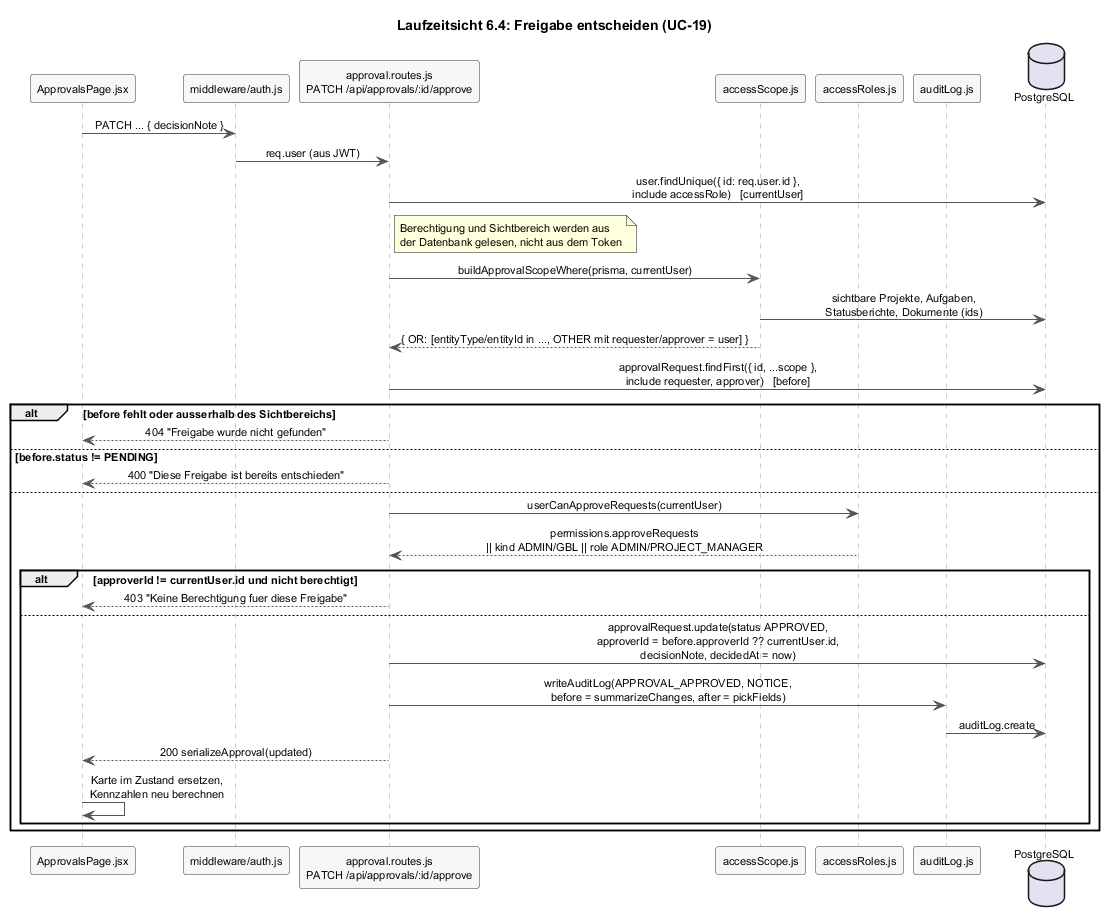
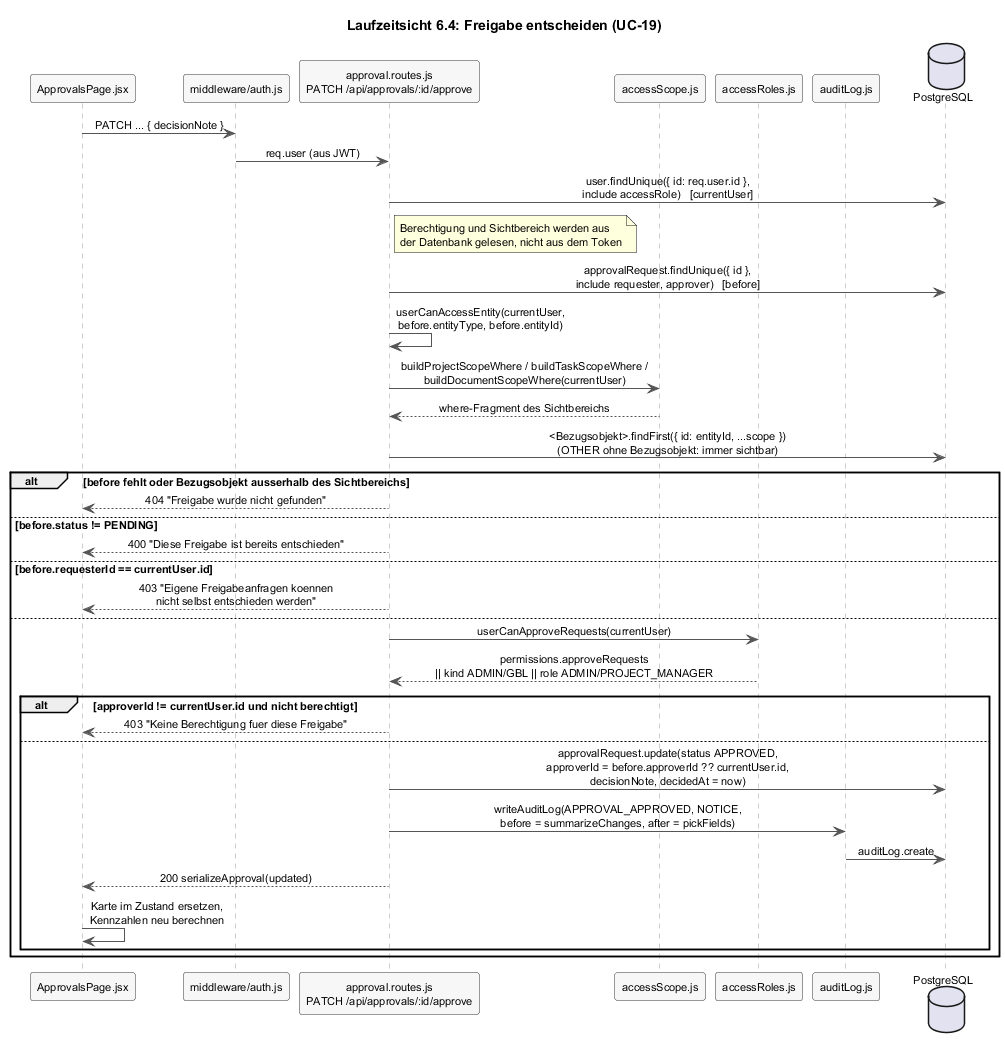
docs(arch): align architecture with server changes of 24 September

diff --git a/docs/arch/A07-verteilungssicht.md b/docs/arch/A07-verteilungssicht.md
@@ -28,7 +28,7 @@ Die Inbetriebnahme aus Sicht des Anwenders (Voraussetzungen, Konfiguration, Schr
 
 **Zuordnung der Bausteine.** Browser-Anwendung: Quelle im Vite-Prozess, Ausführung im Browser. API-Server mit allen Routen- und Hilfsmodulen: Node-Prozess. Persistenzschicht: Schema und Client im Node-Prozess, Daten in PostgreSQL. Local Storage des Browsers hält Sitzung, Einstellungen und die in [8.9](A08-querschnittliche-konzepte.md#89-zustand-im-browser) beschriebenen Fachdaten.
 
-**Was fehlt.** Keine Unit-Tests (nur der Playwright-Rauchtest `npm run test:e2e` gegen die laufende Entwicklungsumgebung mit geladenem Seed), keine CI (kein `.github/`-Verzeichnis), kein Docker, kein Prozessmanager, keine Protokollrotation. Der Server schreibt mit `console.log` und `console.error` auf die Konsole des Terminals. Für ein Studienprojekt mit sechs Personen und einer Entwicklungsumgebung ist das die kleinste lauffähige Verteilung; für einen Betrieb außerhalb der Entwicklung gilt 7.2.
+**Was fehlt.** Keine Unit-Tests (Playwright-Rauchtest `npm run test:e2e` und Schnittstellentests `npm run test:api` unter `tests/`, beide gegen die laufende Entwicklungsumgebung mit geladenem Seed), keine CI (kein `.github/`-Verzeichnis), kein Docker, kein Prozessmanager, keine Protokollrotation. Der Server schreibt mit `console.log` und `console.error` auf die Konsole des Terminals. Für ein Studienprojekt mit sechs Personen und einer Entwicklungsumgebung ist das die kleinste lauffähige Verteilung; für einen Betrieb außerhalb der Entwicklung gilt 7.2.
 
 ---
 
@@ -42,7 +42,7 @@ Die Inbetriebnahme aus Sicht des Anwenders (Voraussetzungen, Konfiguration, Schr
 
 | Element | Realisierung | Änderung gegenüber 7.1 |
 |---------|--------------|-------------------------|
-| **Browser-Anwendung** | `vite build` in `client/` erzeugt statische Dateien unter `client/dist`; ein Reverse Proxy (nginx oder der Standard der IT) liefert sie unter einer HTTPS-Adresse aus. | Serveradresse in `client/src/api/axios.js` muss vor dem Bauen auf die Proxy-Adresse zeigen (TECH-10); besser: aus einer Umgebungsvariable des Builds lesen. |
+| **Browser-Anwendung** | `vite build` in `client/` erzeugt statische Dateien unter `client/dist`; ein Reverse Proxy (nginx oder der Standard der IT) liefert sie unter einer HTTPS-Adresse aus. | `VITE_API_URL` muss beim Bauen auf die Proxy-Adresse zeigen (TECH-10). Vite übernimmt den Wert fest in das Bundle; ein anderer Server braucht einen Neubau, aber keine Codeänderung. |
 | **API-Server** | Ein Node-Prozess unter einem Prozessmanager (systemd oder pm2) hinter demselben Proxy unter `/api`. Damit haben Browser-Anwendung und Schnittstelle einen Ursprung. | CORS auf die eigene Adresse einschränken oder entfernen; `console`-Ausgaben in eine Protokolldatei leiten; `PORT` frei wählbar. |
 | **PostgreSQL** | Von der IT betriebene Instanz mit TLS, Sicherung und Zugriffsbeschränkung. | Keine; `DATABASE_URL` mit `sslmode=require` ist vorgesehen. |
 | **Geheimnisse** | `JWT_SECRET`, `TWO_FACTOR_SECRET_KEY`, Client-Secrets, SMTP-Passwort aus dem Secret-Store der IT als Umgebungsvariablen. | Keine; der Server liest ausschließlich Umgebungsvariablen (CONV-08). |

diff --git a/docs/arch/A08-querschnittliche-konzepte.md b/docs/arch/A08-querschnittliche-konzepte.md
@@ -98,7 +98,7 @@ Die grobe Rolle wird bei Zuordnung abgeleitet (`role.routes.js`: `role.kind === 
 
 **Browserseite.** `data/bankOrganization.js` exportiert `canManageRoles(user)` und `getEffectiveRoleForUser(user)` auf Basis einer festen Standardkonfiguration im Speicher (kein Local Storage mehr). Sie steuern Seitenleiste und Wächter `RequireAuditAccess`; sie sind eine Anzeigeentscheidung, keine Sicherheitsgrenze. Die Masken sehen ohnehin nur, was der Server liefert.
 
-**Abweichungen von QK-02.** (1) `viewDepartments` wird auf dem Server nirgends gelesen; der Sichtbereich gilt unabhängig davon. (2) `organization.routes.js` (Abteilung anlegen) und `document.routes.js` schreiben keine Audit-Einträge. (3) `role.routes.js` weist beim Löschen einer Rolle die Rolle mit Code `A` als Ersatz zu (R-04). (4) Das Seed-Skript legt ein Admin-Konto mit bekanntem Passwort an (R-07).
+**Abweichungen von QK-02.** (1) `viewDepartments` wird auf dem Server nirgends gelesen; der Sichtbereich gilt unabhängig davon. (2) `organization.routes.js` (Abteilung anlegen) und `document.routes.js` schreiben keine Audit-Einträge. (3) Behoben am 24. September: `role.routes.js` lehnt das Löschen einer Rolle mit zugeordneten Benutzern mit 400 ab, statt ihnen die Rolle `A` als Ersatz zuzuweisen (R-04). (4) Das Seed-Skript legt ein Admin-Konto mit bekanntem Passwort an (R-07).
 
 ## 8.4 Audit-Logging
 
@@ -136,7 +136,7 @@ Keine Validierungsbibliothek (kein zod, joi, express-validator). Jedes Routenmod
 
 | Modul | Funktionen | Regel |
 |-------|------------|-------|
-| `auth.routes.js`, `role.routes.js` | `isBlank(value)` | Pflichtfeld: Zeichenkette mit Inhalt nach `trim`. |
+| `auth.routes.js`, `role.routes.js` | `isBlank(value)`, `isTooShortPassword(value)` | Pflichtfeld: Zeichenkette mit Inhalt nach `trim`; Passwort mindestens acht Zeichen bei Registrierung, Anlegen und Ändern ([NFR-15b-02](../spec/N1-nichtfunktional.md)). Anmeldefehler antworten einheitlich mit „E-Mail oder Passwort falsch". |
 | `task.routes.js` | `normalizeStatus` (Tabelle `statusMap` nach [D2.3](../spec/D2-datentypen.md#d23-taskstatusdt)), `normalizePriority` (auch `hoch`/`mittel`/`niedrig`), `parseOptionalNumber` (Komma → Punkt), `parseTaskDate`, `toStringList`, `normalizeFavoriteReturnIndexBy`, `buildTaskDetailWrites` (Tags, Personen, Anhänge, Compliance, Ersteller, Audit-Spur) | [AF-04](../spec/F3-anwendungsfunktionen.md#af-04--status-priorität-und-eingaben-normalisieren) |
 | `project.routes.js` | `normalizeString`, `optionalString`, `optionalDate`, `optionalNumber`, `toStringArray` (Liste oder Text mit Komma/Zeilenumbruch), `buildMilestoneCreates`/`buildRiskCreates`/`buildInterfaceCreates`/`buildBudgetLineCreates` (Zeilen ohne Titel entfallen) |
 | `organization.routes.js` | Name Pflicht; Kürzel und Geschäftsbereich in Großschreibung; Leitung Vorgabe: anlegender Anwender | [UC-27](../spec/F2-anwendungsfaelle.md#uc-27--abteilung-anlegen) | [AF-04](../spec/F3-anwendungsfunktionen.md#af-04--status-priorität-und-eingaben-normalisieren), [UC-07](../spec/F2-anwendungsfaelle.md#uc-07--projekt-anlegen) |

diff --git a/docs/arch/A05-bausteinsicht.md b/docs/arch/A05-bausteinsicht.md
@@ -84,6 +84,8 @@ Jeder Baustein entspricht einem Verzeichnis oder einer Datei im Repository; nich
 | **Regeln und Speicher** | `utils/` (6 Dateien, 1.305 Zeilen) | Reine Funktionen: `task.js` (Statuslabels, Fälligkeitsklassen), `effort.js` (Stunden↔Tage, 8 h/Tag), `calendar.js` (Datumsraster), `taskMarkers.js` (Farbstreifen-Zuordnung nach AF-10, Local-Storage-Kopie), `appearance.js` (Darstellung, Datenattribute am `<html>`), `reportExport.js` (HTML-Vorlage und PDF des Statusberichts, gezeichnetes PDF und CSV des Abteilungsberichts, 822 Zeilen). |
 | **Anzeigedaten** | `data/` (5 Dateien, rund 1.300 Zeilen) | `bankOrganization.js` (Standardrollen, Anzeigetexte für Rollenarten und Berechtigungen, `canManageRoles`, `getEffectiveRoleForUser`), `calendarConstants.js` (Anzeigetexte für Status und Priorität), `projectFixtures.js`, `taskFixtures.js`, `documentFixtures.js` (Beispieldaten; von keiner Maske mehr importiert, nur noch vom Seed-Skript des Servers gelesen). |
 
+**Bekannte Grenze.** `ProjectsPage`, `MyTasksPage` und `SettingsPage` bündeln Darstellung, Zustand und Schnittstellenaufrufe in je einer Datei; das erschwert Wartung und Tests der Oberfläche. Der nächste Schritt wäre, Dialoge und Reiter nach `components/` auszulagern, wie es für Kalender und Reports bereits geschehen ist.
+
 **Beziehungen.** `App.jsx` importiert alle Masken; jede Maske importiert `AppShell`, `axios`, `AuthContext` und die benötigten `utils`. Masken importieren einander nur an einer Stelle: `MyTasksPage` nutzt den Projektdialog aus `ProjectsPage`. `AppShell` importiert `bankOrganization` (Sichtbarkeit des Audit-Log-Eintrags) und `appearance`. Es gibt keinen globalen Zustand außer `AuthContext`; jede Maske lädt ihre Daten selbst. Dashboard, Projekte, Board und Reports laden dieselbe Organisationsübersicht (`GET /api/organization`: Abteilungen, Projekte mit Berichtsbasis, Aufgaben des Sichtbereichs) und leiten daraus ihre Anzeige ab.
 
 **Entwurfsentscheidungen.** Kein Zustandsmanagement-Paket (kein Redux, kein Query-Cache): Jede Maske hält ihren Zustand mit `useState`/`useEffect` und lädt beim Öffnen. Das ist für zwölf Masken ohne geteilte Live-Daten ausreichend und hält die Abhängigkeiten flach; der Preis ist, dass Masken voneinander nichts mitbekommen und über `CustomEvent`s benachrichtigt werden müssen, und dass die Organisationsübersicht bei jedem Maskenwechsel neu geladen wird. Die Anzeigetexte der Enums liegen in `calendarConstants.js` und `task.js` doppelt (Kalender- und Board-Schreibweise, [D2.3](../spec/D2-datentypen.md#d23-taskstatusdt)).

diff --git a/docs/arch/A04-loesungsstrategie.md b/docs/arch/A04-loesungsstrategie.md
@@ -14,6 +14,6 @@ Die Grundentscheidungen der Architektur in einer Tabelle: welche Entscheidung we
 | **Geheimnisse nie im Klartext in der Datenbank:** TOTP-Geheimnisse und Refresh-Tokens mit AES-256-GCM, Passwörter und Wiederherstellungscodes mit bcrypt, SSO-Tickets als SHA-256. Schlüssel nur in `.env`. | QZ-02 | CONV-08 | [Kapitel 8.8](A08-querschnittliche-konzepte.md#88-geheimnisse) |
 | **Druckausgabe im Browser:** Der Statusbericht wird als HTML gebaut, seitenweise gerastert und mit jsPDF zusammengesetzt; der Server ist unbeteiligt. | QZ-05 | TECH-09 | [ADR-005](A09-architekturentscheidungen.md#adr-005-statusbericht-als-pdf-im-browser-erzeugen) |
 
-**Was die Strategie bewusst nicht enthält.** Keine Schichtentrennung innerhalb des Servers (Routen sprechen direkt mit Prisma), keine Service-Klassen, keine Unit-Tests (nur ein Playwright-Rauchtest unter `tests/`), kein Build- oder Deploy-Workflow. Für sechs Studierende und einen Geschäftsbereich ist das die kleinste Struktur, die die Qualitätsziele trägt; die Grenzen sind in [Kapitel 5](A05-bausteinsicht.md) und [8](A08-querschnittliche-konzepte.md) benannt, wo sie sich im Code bemerkbar machen.
+**Was die Strategie bewusst nicht enthält.** Keine Schichtentrennung innerhalb des Servers (Routen sprechen direkt mit Prisma), keine Service-Klassen, keine Unit-Tests (Playwright-Rauchtest und Schnittstellentests unter `tests/`, Zuordnung zu den Anforderungen in `tests/README.md`), kein Build- oder Deploy-Workflow. Für sechs Studierende und einen Geschäftsbereich ist das die kleinste Struktur, die die Qualitätsziele trägt; die Grenzen sind in [Kapitel 5](A05-bausteinsicht.md) und [8](A08-querschnittliche-konzepte.md) benannt, wo sie sich im Code bemerkbar machen.
 
 **Frühere Abweichung von der Strategie.** Bis zum 13. September hielt die Browser-Anwendung Projekte, Backlog und Board im Local Storage statt sie über `/api/projects` und `/api/tasks` zu laden. Mit den Umbauten vom 13. und 23. September (Abteilungen und Detailentitäten in der Datenbank, Organisationsübersicht unter `/api/organization`, Backlog-Sortierung und Favoriten auf dem Server, Seed-Skript statt Beispieldaten im Browser) gilt „Server als Quelle der Wahrheit" für alle Fachdaten. Was bleibt, ist die fehlende Fehlerrückmeldung der anlegenden Masken (R-01, [B1.5](../spec/B1-dialogspezifikation.md#b15-stand-der-anbindung)). [Kapitel 8.9](A08-querschnittliche-konzepte.md#89-zustand-im-browser) beschreibt den Ist-Zustand.

diff --git a/docs/arch/A02-randbedingungen.md b/docs/arch/A02-randbedingungen.md
@@ -15,7 +15,7 @@ Versionsangaben dienen der Nachvollziehbarkeit; bindend ist die Technologie, nic
 | ID | Randbedingung | Beschreibung / Quelle |
 |----|---------------|-----------------------|
 | TECH-01 | **JavaScript auf beiden Seiten** | Server und Browser-Anwendung in JavaScript (kein TypeScript). Server als CommonJS-Module, Browser-Anwendung als ES-Module. Aus [`TEAMINFO.md`](../../TEAMINFO.md), begründet in [ADR-002](A09-architekturentscheidungen.md#adr-002-javascript-durchgängig-react-im-browser-express-auf-dem-server). |
-| TECH-02 | **Node.js als Laufzeit, npm als Paketmanager** | Drei `package.json`: Wurzel (`concurrently` zum gemeinsamen Start, `@playwright/test` für den Rauchtest), `server/`, `client/`. Keine Mindestversion festgelegt (kein `engines`-Feld); Entwicklung mit aktueller LTS. |
+| TECH-02 | **Node.js als Laufzeit, npm als Paketmanager** | Drei `package.json`: Wurzel (`concurrently` zum gemeinsamen Start, `@playwright/test` für Rauchtest und Schnittstellentests), `server/`, `client/`. Keine Mindestversion festgelegt (kein `engines`-Feld); Entwicklung mit aktueller LTS. |
 | TECH-03 | **Express 5 als HTTP-Server** | Eine Express-Anwendung in `server/src/index.js`, elf Routenmodule unter `/api`. Keine weitere Server-Schicht (kein Nginx, kein Prozessmanager) im Projekt. [ADR-001](A09-architekturentscheidungen.md#adr-001-getrennte-browser-anwendung-und-rest-api), [ADR-002](A09-architekturentscheidungen.md#adr-002-javascript-durchgängig-react-im-browser-express-auf-dem-server). |
 | TECH-04 | **React 19 mit Vite 8, React Router 7, Tailwind CSS 4** | Browser-Anwendung als Single-Page-Application; Vite als Entwicklungsserver und Bundler; Routing im Browser; Gestaltung mit Tailwind-Klassen und Datenattributen für Darstellungsvarianten. [ADR-001](A09-architekturentscheidungen.md#adr-001-getrennte-browser-anwendung-und-rest-api), [ADR-002](A09-architekturentscheidungen.md#adr-002-javascript-durchgängig-react-im-browser-express-auf-dem-server). |
 | TECH-05 | **PostgreSQL mit Prisma 6** | Relationale Datenbank; Schema in `server/prisma/schema.prisma`; 16 Migrationen unter `server/prisma/migrations/`; Seed-Skript `server/prisma/seed.js` für Beispieldaten; Zugriff über den Prisma-Client mit `@prisma/adapter-pg`. Verbindung über `DATABASE_URL`. [ADR-003](A09-architekturentscheidungen.md#adr-003-postgresql-mit-prisma-als-persistenz). |

diff --git a/docs/arch/A09-architekturentscheidungen.md b/docs/arch/A09-architekturentscheidungen.md
@@ -30,7 +30,7 @@ Die fünf Entscheidungen, die die Struktur von NextTask festlegen. Je Entscheidu
 
 **Begründung.** Die Trennung erlaubt, Benutzeroberfläche, Geschäftslogik und Schnittstelle getrennt zu entwickeln und zu warten, und erleichtert die Aufgabenverteilung im Team: Teammitglieder arbeiten an Masken, während andere Routen bauen, jede Seite mit ihrer eigenen Werkzeugkette. Die Oberfläche ist zudem der größere Teil des Systems (16.000 gegen 4.900 Zeilen) und lebt von Interaktion, die nur im Browser stattfindet; Server-Rendering hätte dafür keinen Wert. Und die Struktur passt zu einem System, das später erweitert, betrieben und möglicherweise an einen Kunden wie die Sparkasse gegeben werden soll: eine Schnittstelle mit klarem Vertrag lässt sich unabhängig von der Oberfläche prüfen und weitergeben. Die Kosten (CORS, Token, feste Adresse) sind bekannt und in [Kapitel 3.2](A03-kontextabgrenzung.md#32-technischer-kontext) benannt.
 
-**Konsequenzen.** JWT statt Session ([ADR-004](#adr-004-zustandslose-anmeldung-mit-jwt-totp-und-openid-connect)). `cors()` ohne Einschränkung in der Entwicklung. Serveradresse fest in `api/axios.js` (TECH-10), für einen Betrieb außerhalb der Entwicklung zu ändern ([7.2](A07-verteilungssicht.md#72-zielbild-für-einen-betrieb-durch-die-sparkassen-it)). Die Schnittstelle ist auch ohne Oberfläche nutzbar, was in der Entwicklung dazu geführt hat, dass Serverfunktionen vor ihrer Anbindung existieren (R-01). Ausführlich: [`adr/001-spa-und-rest-api.md`](../../adr/001-spa-und-rest-api.md).
+**Konsequenzen.** JWT statt Session ([ADR-004](#adr-004-zustandslose-anmeldung-mit-jwt-totp-und-openid-connect)). `cors()` ohne Einschränkung in der Entwicklung. Serveradresse beim Bauen aus `VITE_API_URL` (TECH-10), für einen Betrieb außerhalb der Entwicklung zu setzen ([7.2](A07-verteilungssicht.md#72-zielbild-für-einen-betrieb-durch-die-sparkassen-it)). Die Schnittstelle ist auch ohne Oberfläche nutzbar, was in der Entwicklung dazu geführt hat, dass Serverfunktionen vor ihrer Anbindung existieren (R-01). Ausführlich: [`adr/001-spa-und-rest-api.md`](../../adr/001-spa-und-rest-api.md).
 
 ---
 

diff --git a/docs/arch/A06-laufzeitsicht.md b/docs/arch/A06-laufzeitsicht.md
@@ -65,6 +65,6 @@ Bemerkenswert:
 Bemerkenswert:
 
 - **Berechtigung aus der Datenbank.** `getCurrentUser` lädt den Anwender mit Zugriffsrolle bei jeder Entscheidung neu. Das JWT enthält zwar `role` und `accessRoleId`, wird für die Prüfung aber nicht benutzt. Eine Rollenänderung durch einen Administrator wirkt deshalb sofort, ohne dass der Betroffene sich neu anmeldet.
-- **Sichtbereich vor Zustand.** Die Anfrage wird mit `buildApprovalScopeWhere` gesucht; liegt ihr Bezugsobjekt außerhalb des Sichtbereichs, antwortet der Server 404, bevor Zustand oder Berechtigung geprüft werden. Innerhalb des Sichtbereichs folgt: Existenz, dann Zustand, dann Berechtigung. Ein berechtigter Anwender erfährt so, dass die Anfrage existiert und entschieden ist; für ein internes Werkzeug ist das gewollt, damit die Meldung im Cockpit stimmt.
+- **Sichtbereich vor Zustand.** Die Anfrage wird mit `findUnique` geladen; danach prüft `userCanAccessEntity` ihr Bezugsobjekt gegen den Sichtbereich (`findFirst` auf Projekt, Aufgabe, Statusbericht oder Dokument mit dem passenden `build…ScopeWhere` aus `accessScope.js`; freie Anliegen ohne Bezugsobjekt gelten immer als sichtbar). Liegt das Bezugsobjekt außerhalb, antwortet der Server 404, bevor Zustand oder Berechtigung geprüft werden. Danach folgt: Zustand, dann Vier-Augen-Prüfung (`before.requesterId === currentUser.id` → 403, seit 24. September), dann Berechtigung. Ein berechtigter Anwender erfährt so, dass die Anfrage existiert und entschieden ist; für ein internes Werkzeug ist das gewollt, damit die Meldung im Cockpit stimmt.
 - **Nachträgliche Genehmigerzuordnung.** War `approverId` leer (AF-03 fand niemanden), wird der Entscheider eingetragen. Der Audit-Eintrag zeigt das als Änderung von `approverId` von `null` auf die Kennung.
 - **Genehmigen und Ablehnen sind eine Funktion.** `decideApproval(req, res, status)` bedient beide Handler; nur Zielstatus, Aktion und Kritikalität des Audit-Eintrags unterscheiden sich. Abbrechen ist ein eigener Handler, weil der Berechtigtenkreis größer ist (Anfragender).

diff --git a/docs/arch/README.md b/docs/arch/README.md
@@ -82,3 +82,4 @@ Siehe den gleichnamigen Abschnitt in [`../spec/README.md`](../spec/README.md#ein
 |---------|-------|----------|
 | 0.1 | 2026-09-10 | Erste Fassung der Kapitel 1 bis 9 und 12 mit fünf ADRs. |
 | 0.2 | 2026-09-24 | Abgleich mit dem Code vom 13. bis 24. September: elf Routenmodule, zehn Hilfsmodule (`accessScope`, `contentSerializers`), 29 Modelle und 16 Migrationen, Seed-Skript und Playwright-Rauchtest; Berechtigung und Sichtbereich serverseitig (8.3, 6.3, 6.4); kein Fachzustand mehr im Browser (8.9, 4); Bausteindiagramm und Laufzeitdiagramme angepasst; Abschnitt zu KI-Werkzeugen. |
+| 0.2.1 | 2026-09-24 | Laufzeitsicht 6.4 mit Vier-Augen-Prüfung und Sichtbereichsprüfung über `userCanAccessEntity` nach dem Server-Fix; Schnittstellentests, Passwortregeln, Rollenlöschung und `VITE_API_URL` in A02, A04, A07, A08, A09, A12; Verteilungsdiagramm 7.1 neu gerendert. |

diff --git a/docs/arch/A12-glossar.md b/docs/arch/A12-glossar.md
@@ -82,7 +82,7 @@ Startet den Server in der Entwicklung neu, wenn sich Dateien ändern (`npm run d
 
 ### Playwright
 
-Test-Werkzeug, das einen Browser fernsteuert. Im Repository ein Rauchtest (`tests/smoke.spec.js`), der sich anmeldet und alle Masken öffnet; Start mit `npm run test:e2e`.
+Test-Werkzeug, das einen Browser fernsteuert oder HTTP-Aufrufe ohne Browser ausführt. Im Repository ein Rauchtest (`tests/smoke.spec.js`, `npm run test:e2e`) und Schnittstellentests unter `tests/api/` (`npm run test:api`); `npm test` führt beides aus.
 
 ### Prisma
 
